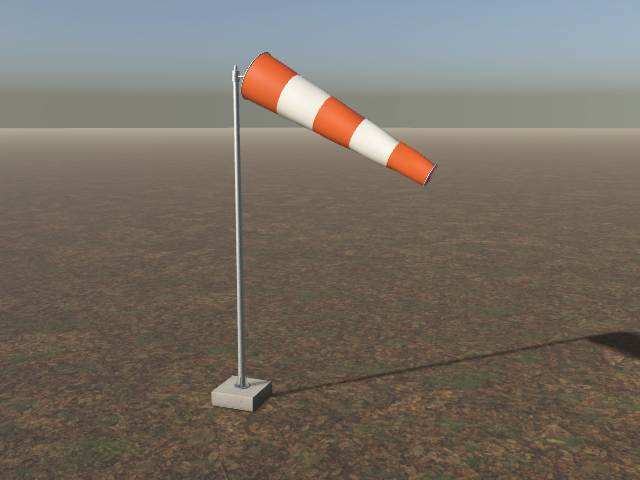
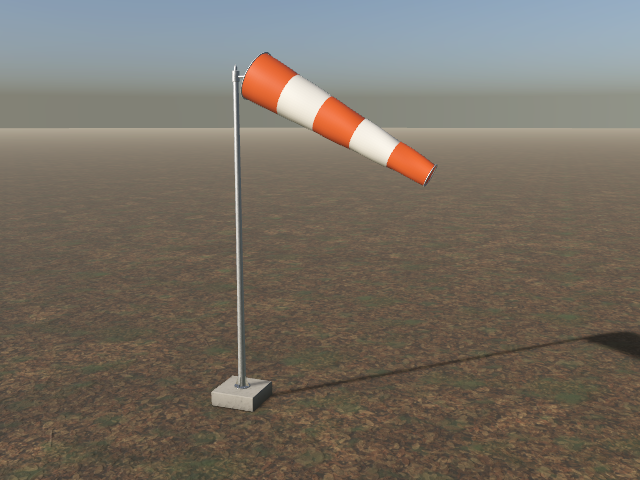
windsock: centre bounds over mast and sock

diff --git a/Sources/RealLibrary/Props/Aerospace/Windsock.swift b/Sources/RealLibrary/Props/Aerospace/Windsock.swift
@@ -30,6 +30,8 @@ public struct Windsock: RealArticulated {
         var rig = Rig(name: Self.id, lods: 2, switchDistances: [30])
         let H = mastHeight
         let hoopX: Float = 0.42
+        // mast offset so the asset is centred over mast and level sock
+        let ox = -(hoopX + sockLength) / 2
         for l in 0..<2 {
             let segs = l == 0 ? 24 : 10
             var m = Model(name: Self.id)
@@ -49,19 +51,21 @@ public struct Windsock: RealArticulated {
                           Xform(translation: V3(cos(a) * 0.065, 0.32, sin(a) * 0.065), rotation: simd_quatf(angle: -a, axis: V3(0, 1, 0))))
                 }
             }
-            rig.base[l] = m
+            var shifted = Model(name: Self.id)
+            shifted.add(m, Xform(translation: V3(ox, 0, 0)))
+            rig.base[l] = shifted
         }
         let top = H + 0.3 - 0.12
-        rig.part("head", pivot: V3(0, top, 0), joint: .hinge(axis: V3(0, 1, 0), -180...180))
-        rig.part("sock", parent: "head", pivot: V3(hoopX, top + 0.05, 0), joint: .hinge(axis: V3(0, 0, 1), -80...0))
+        rig.part("head", pivot: V3(ox, top, 0), joint: .hinge(axis: V3(0, 1, 0), -180...180))
+        rig.part("sock", parent: "head", pivot: V3(ox + hoopX, top + 0.05, 0), joint: .hinge(axis: V3(0, 0, 1), -80...0))
         // head: swivel collar, arm, hoop and a small finial
-        rig.add(Prim.cylinder(radius: 0.07, height: 0.2, bevel: 0.01, segments: 16, material: metal), Xform(translation: V3(0, top - 0.04, 0)), to: "head")
-        rig.add(Prim.tube([V3(0, top + 0.05, 0), V3(hoopX, top + 0.05, 0)], radii: [0.025, 0.025], sides: 8, seamTile: 0.2, material: metal), to: "head")
+        rig.add(Prim.cylinder(radius: 0.07, height: 0.2, bevel: 0.01, segments: 16, material: metal), Xform(translation: V3(ox, top - 0.04, 0)), to: "head")
+        rig.add(Prim.tube([V3(ox, top + 0.05, 0), V3(ox + hoopX, top + 0.05, 0)], radii: [0.025, 0.025], sides: 8, seamTile: 0.2, material: metal), to: "head")
         rig.add(Prim.lathe([V2(0.03, 0), V2(0.03, 0.06), V2(0, 0.12)], segments: 12, seamTile: 0.2, material: metal),
-                Xform(translation: V3(0, top + 0.16, 0)), to: "head")
+                Xform(translation: V3(ox, top + 0.16, 0)), to: "head")
         // sock: banded frustum along +X from the hoop, inner face too, hoop and tail rings
         let toX = simd_quatf(degrees: -90, axis: V3(0, 0, 1))
-        let o = V3(hoopX, top + 0.05, 0)
+        let o = V3(ox + hoopX, top + 0.05, 0)
         for l in 0..<2 {
             let segs = l == 0 ? 28 : 12
             for b in 0..<bands {
